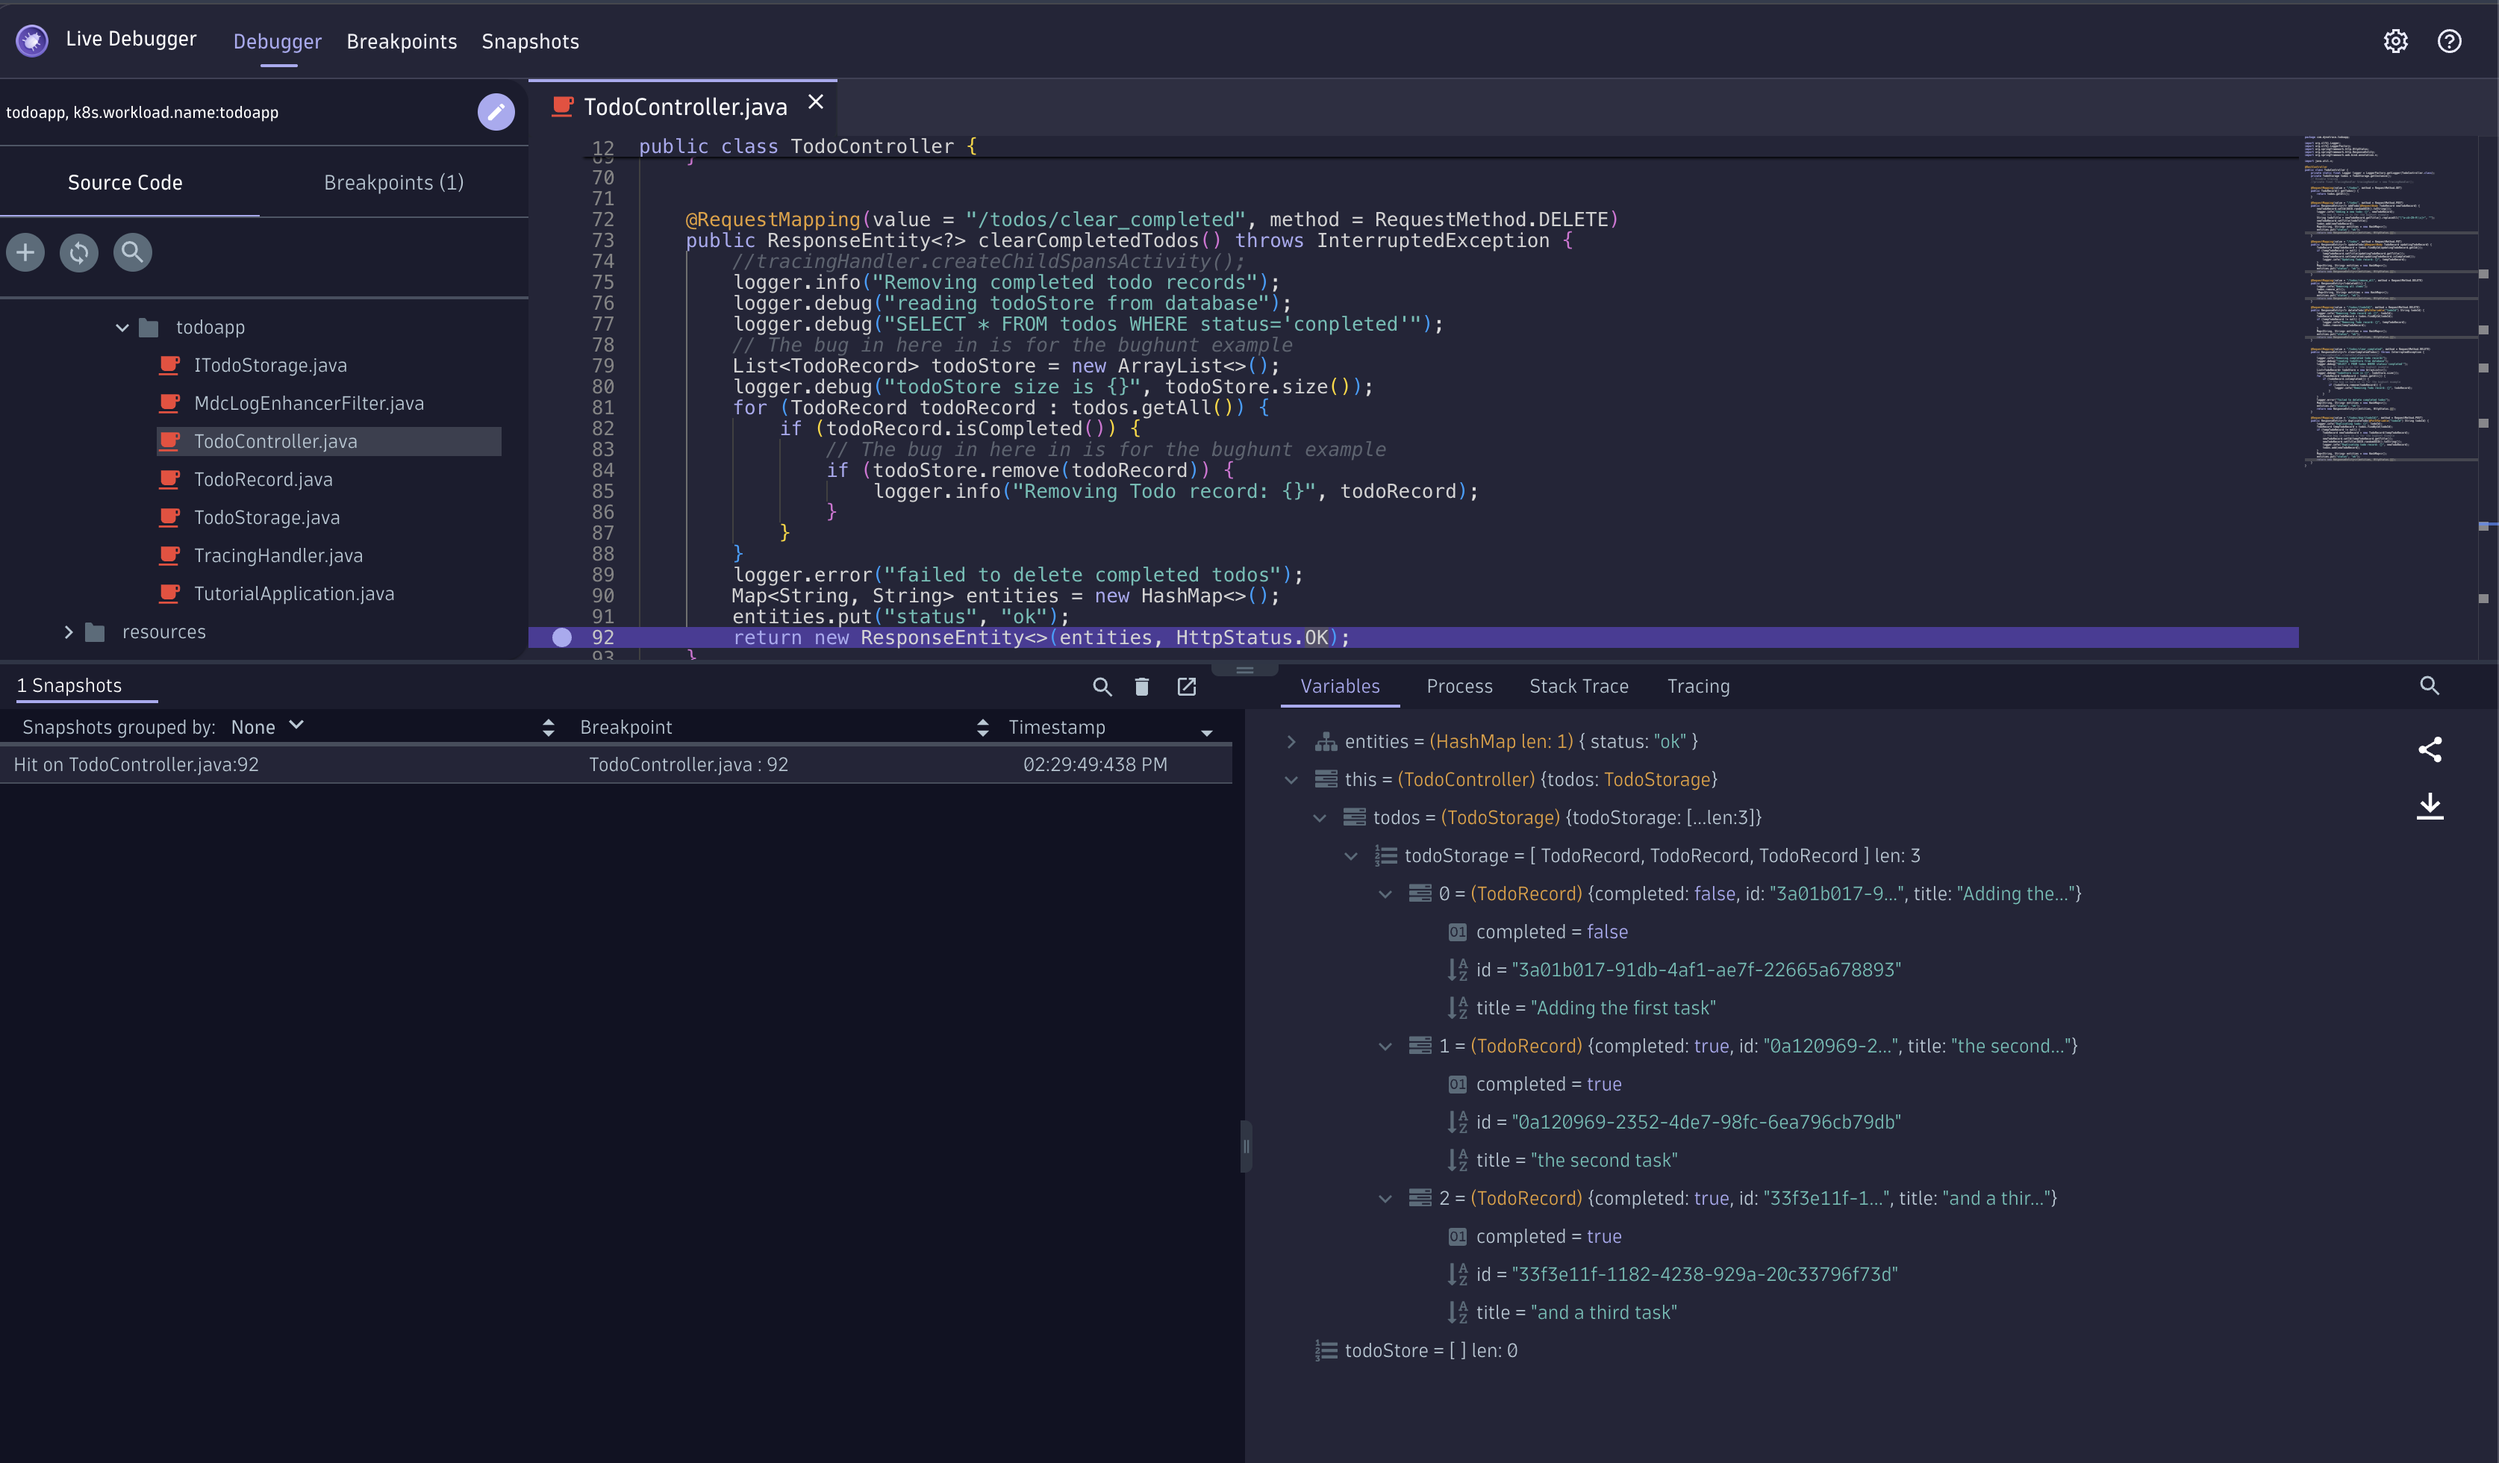
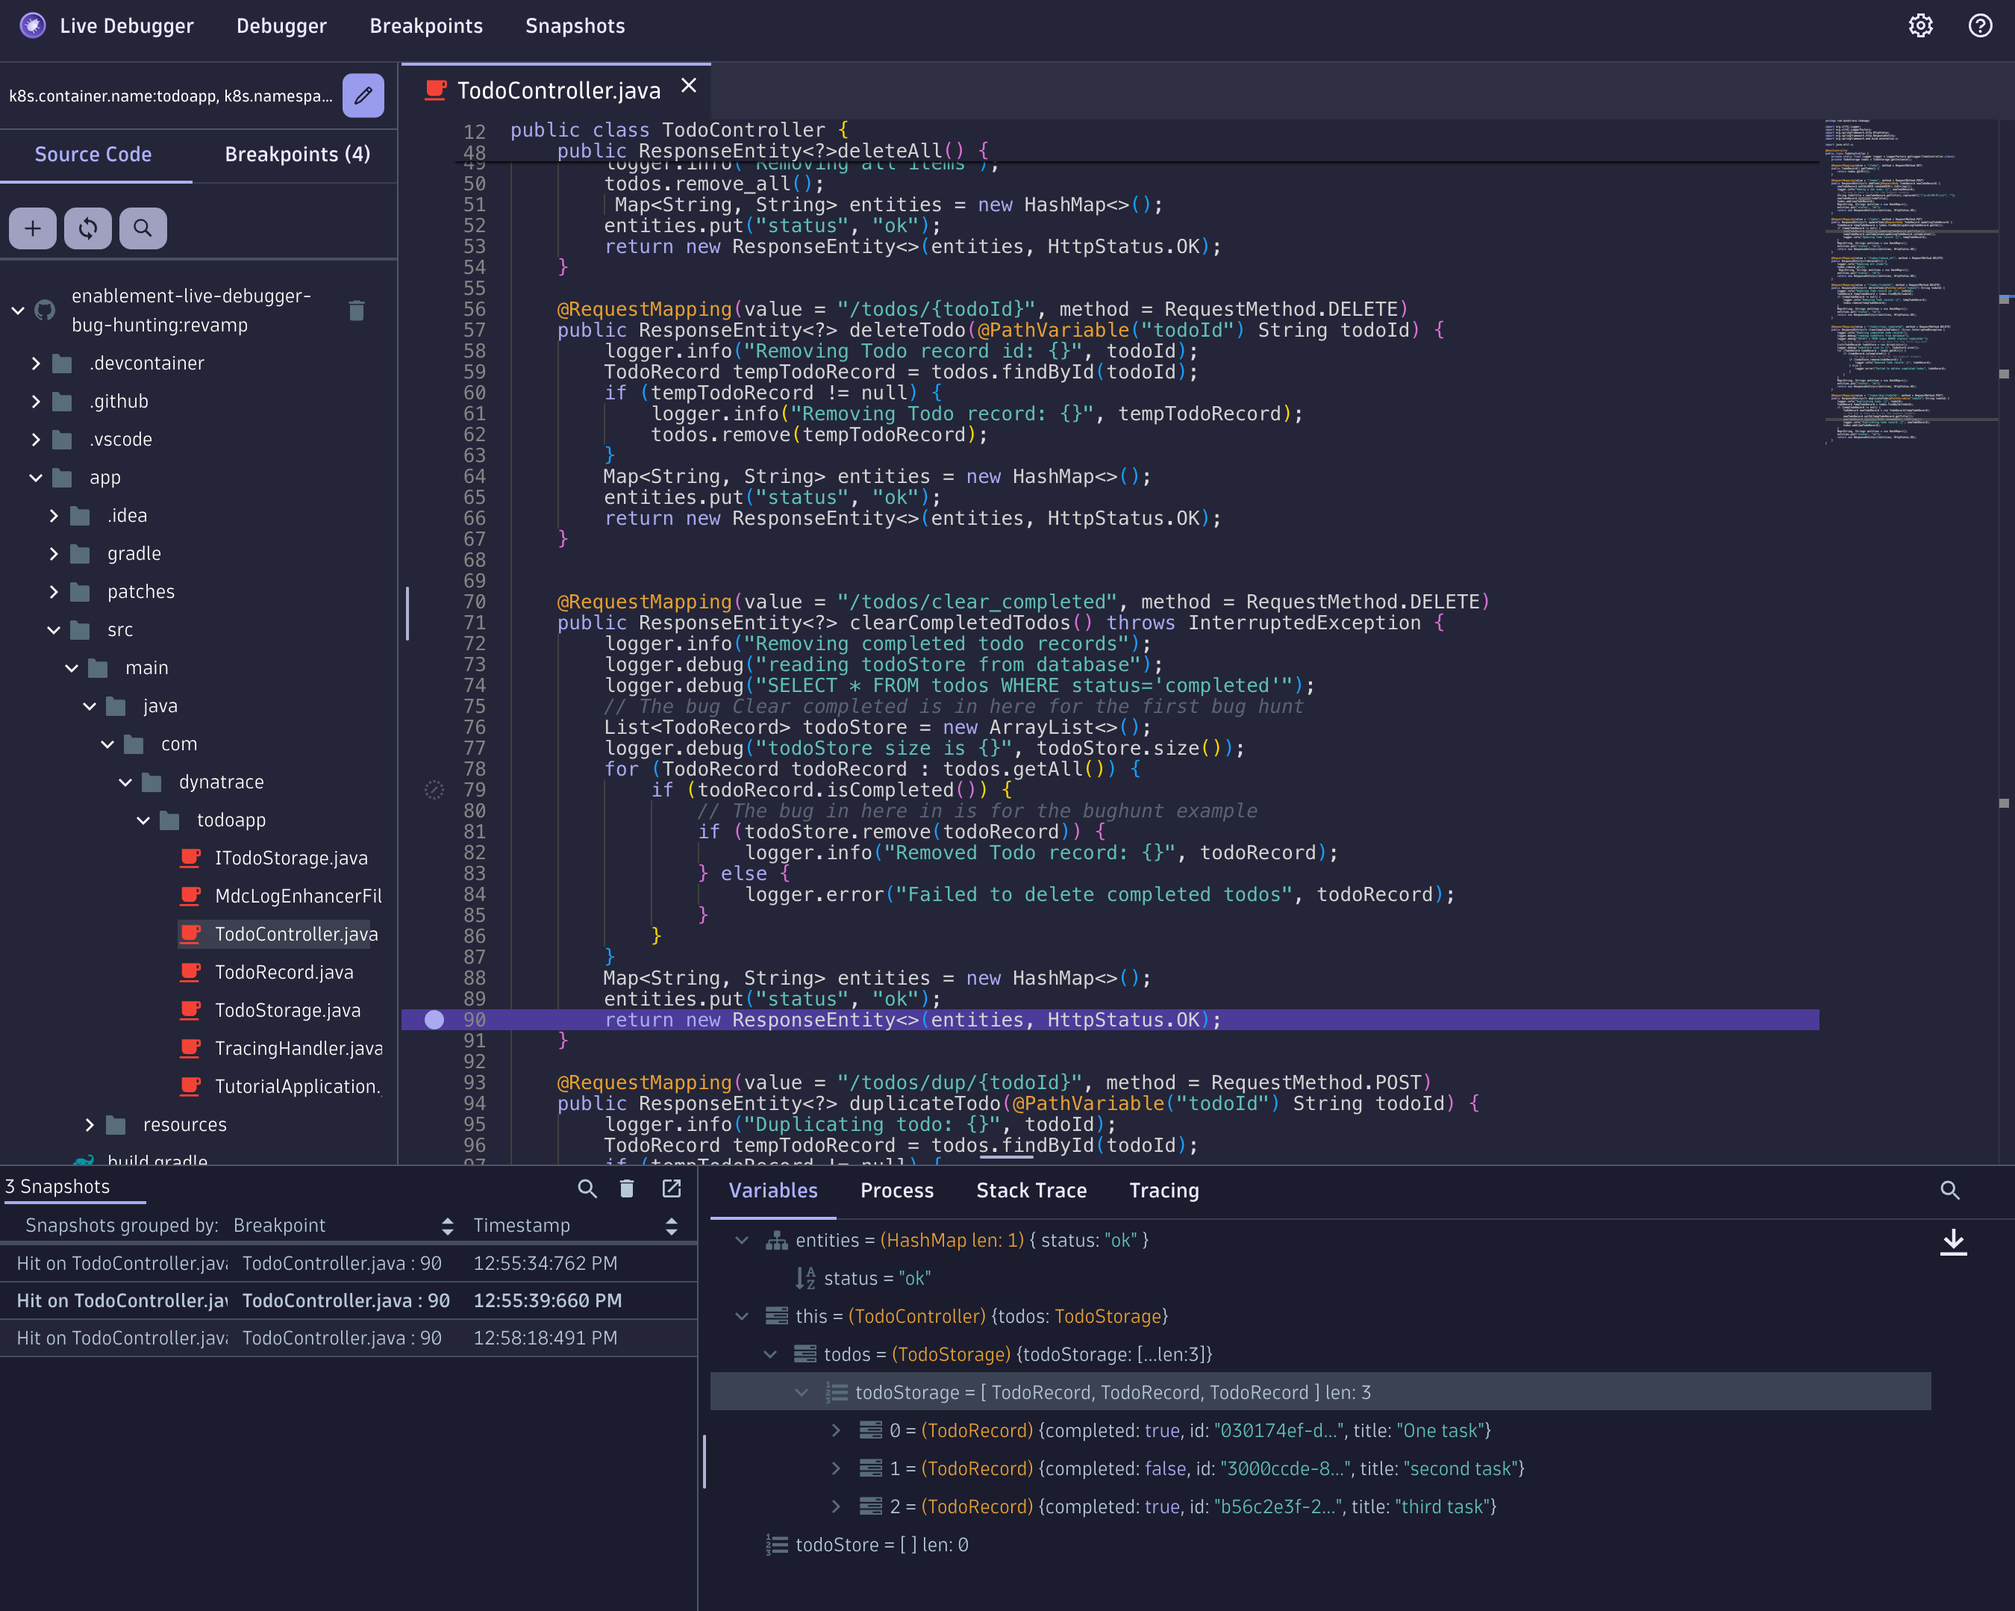
bug 1 updated

Changed region(s): [[0.0, 0.0, 0.9644, 0.9648], [0.9022, 0.0, 1.0, 1.0], [0.1556, 0.1867, 0.1867, 0.2179]]

diff --git a/docs/1-bug-hunt-via-k8s.md b/docs/1-bug-hunt-via-k8s.md
@@ -79,12 +79,12 @@ if you don't know the structure, use the search and type ``TodoController``it'll
 
 Now let's search for the Method ``clearCompletedTodos``. You'll find the Method definition at line 72. 
 
-> `72` @RequestMapping(value = "/todos/clear_completed", method = RequestMethod.DELETE)
-> `73` public ResponseEntity<?> clearCompletedTodos() throws InterruptedException {
+> `70` @RequestMapping(value = "/todos/clear_completed", method = RequestMethod.DELETE)
+> `71` public ResponseEntity<?> clearCompletedTodos() throws InterruptedException {
 
-We need to set a non-breaking breakpoint on running code inside the method, for this I recommend to start setting it on the ``return`` code which is at line 92. This way we gather the values of the variables before they are sent back to the client.
+We need to set a non-breaking breakpoint on running code inside the method, for this I recommend to start setting it on the ``return`` code which is at line 90. This way we gather all the values of the variables inside the method before the process ends and the return code is sent back to the client.
 
-> `92` return new ResponseEntity<>(entities, HttpStatus.OK);
+> `90` return new ResponseEntity<>(entities, HttpStatus.OK);
 
 You can set a non-breaking breakpoint by clicking just to the left of the line number.  Set it and wait for the status to change to **Active**.
 
@@ -98,7 +98,9 @@ Return to the Live Debugger and see the Snaphot captured, open it and see all th
 
 Do you see the bug? can you understand what happened and why the completed todos are not deleted? We can see two variables, the ``todos`` with a length of 3 and ``todoStore`` with a length of 0.
 
-In line 84 ``todoStore.remove(todoRecord)`` the variable todoStore is a newly instantiated variable. This is a mistake, it should be replaced by the variable ``todos`` so the function can succesfully remove all cleared tasks!
+!!! example ""
+    In line 81 ``todoStore.remove(todoRecord)`` the variable todoStore is a newly instantiated variable. The developer forgot that the persistence layer gives an array automatically and does not need to create a new array. This is a mistake, it should be replaced by the variable ``todos`` so the function can succesfully remove all cleared tasks!
+
 
 Yay! we found the first bug!!!
 
@@ -106,7 +108,26 @@ Yay! we found the first bug!!!
     Did you notice? With Dynatrace we were able to navigate from the Kubernetes Cluster all the way down to the workload, it's traces cotinuing down to the specific method and namespace of the called function and variables. With one click on the method we were able to set a **non-breaking** breakpoint in our production application deployed in a Kubernetes Cluster where with a single snapshot we were able to identify the bug. Debugging Kubernetes Clusters has never been so easy!!! And in Production!! 🤯
 
 
-!!! example "Apply the solution for the bug Clear Completed 🪲🛠"
+
+## Fixing the bug and redeploying the app
+
+Open in VS Code the class ``TodoController.java`` and apply your changes. For compiling and redeploying the app we a have comfort function for you that does the compilation and the redeployment in kubernetes for you. Give it a try!
+
+```bash
+redeployApp
+```
+
+Is the bug gone? Open the app and verify it!
+
+Yet, another way of verifying you succeeded is by typing: 
+
+```bash
+is_bug1_solved
+```
+
+
+
+??? example "Solution for the bug Clear Completed 🪲🛠"
 
     Go to the terminal and type:
     
@@ -125,40 +146,26 @@ Yay! we found the first bug!!!
     The `TodoController.clearCompletedTodos` changes from trying to remove items from a newly created List, logging an obvious error...
     
     ```javascript
-        // The bug in here in is for the bughunt example
-        List<TodoRecord> todoStore = new ArrayList<>();
-        logger.debug("todoStore size is {}", todoStore.size());
-        for (TodoRecord todoRecord : todos.getAll()) {
-            if (todoRecord.isCompleted()) {
-                // The bug in here in is for the bughunt example
-                if (todoStore.remove(todoRecord)) {
-                    logger.info("Removing Todo record: {}", todoRecord);
-                }
-            }
-        }
-        logger.error("failed to delete completed todos");
+       
+                if (todosStore.remove(todoRecord)) {
+               
     ```
 
     to removing the correct item and validating the size of the array after the changes with the correct logging message.
+    
     ```javascript
-        // The bug in here in is for the bughunt example
-        //List<TodoRecord> todoStore = new ArrayList<>();
-        int previousSize = todos.getAll().length;
-        logger.info("todos size is {}", previousSize);
-        for (TodoRecord todoRecord : todos.getAll()) {
-            if (todoRecord.isCompleted()) {
-                // The bug is solved here for the bughunt example
+      
                 if (todos.remove(todoRecord)) {
-                    logger.info("Removing Todo record: {}", todoRecord);
-                   }
-            }
-        }
-        int actualSize = todos.getAll().length;
-        if (actualSize < previousSize){
-            logger.info("Todo record removed succesfully");
-        }
+            
+
     ```
     </details>
+
+
+    ??? question "Good to know about Version Control and Live Debugger"
+        The `solve_bug1` function adds to the Kubernetes Deployment information to the Live Debugger where the source code resides. The solution is stored in the branch `solution/bug1`. 
+        More on this in the section "Version Control" of this tutorial.
+
 
     Verify the bug is gone! add more tasks and click on `clear completed` see how the tasks disappear gracefully now! Amazing!
 

diff --git a/docs/1-bug-clear-completed.md b/docs/1-bug-clear-completed.md
@@ -20,6 +20,15 @@ It should look something like this:
 
 Apparently the button does not work. When clicked - completed todos are not cleared. 
 
+If you want to verify you have bumped correctly into the bug, you can verify this with a function we set up for you.
+
+!!! tip "🪲 Verify if you have bumped into the bug"
+    
+    ```bash
+    is_bug1_there
+    ```
+
+
 We embark on our Bug hunting journey! 
 
 There are multiple ways to dive deep into the issue because Dynatrace is monitoring your Kubernetes cluster, all workloads in it, all it's traces with code level insights and all real users accessing the exposed application.
